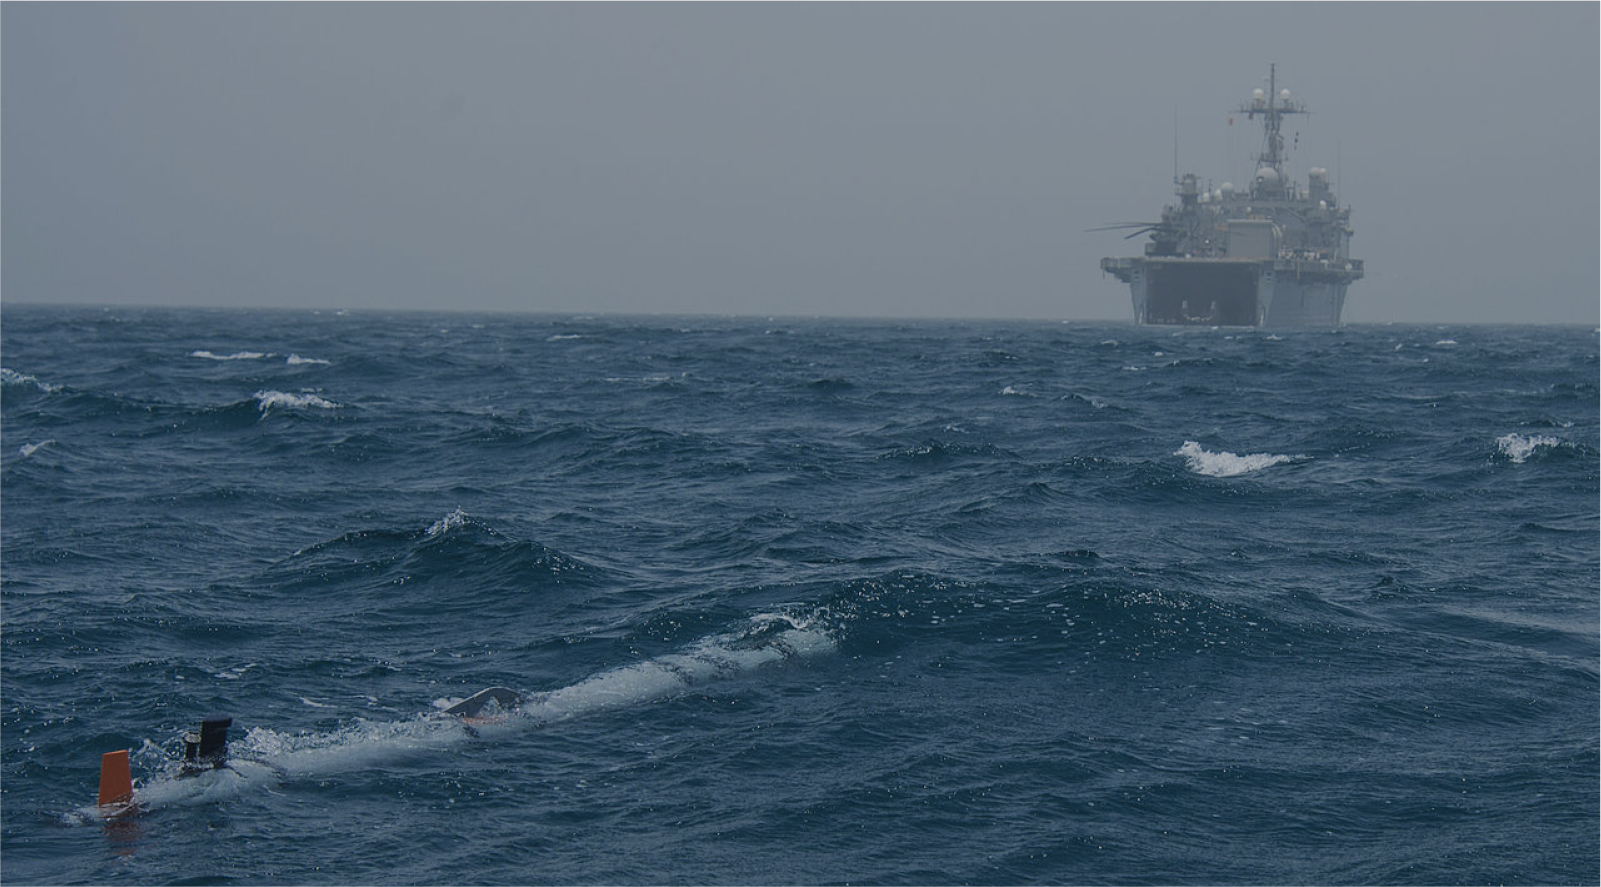
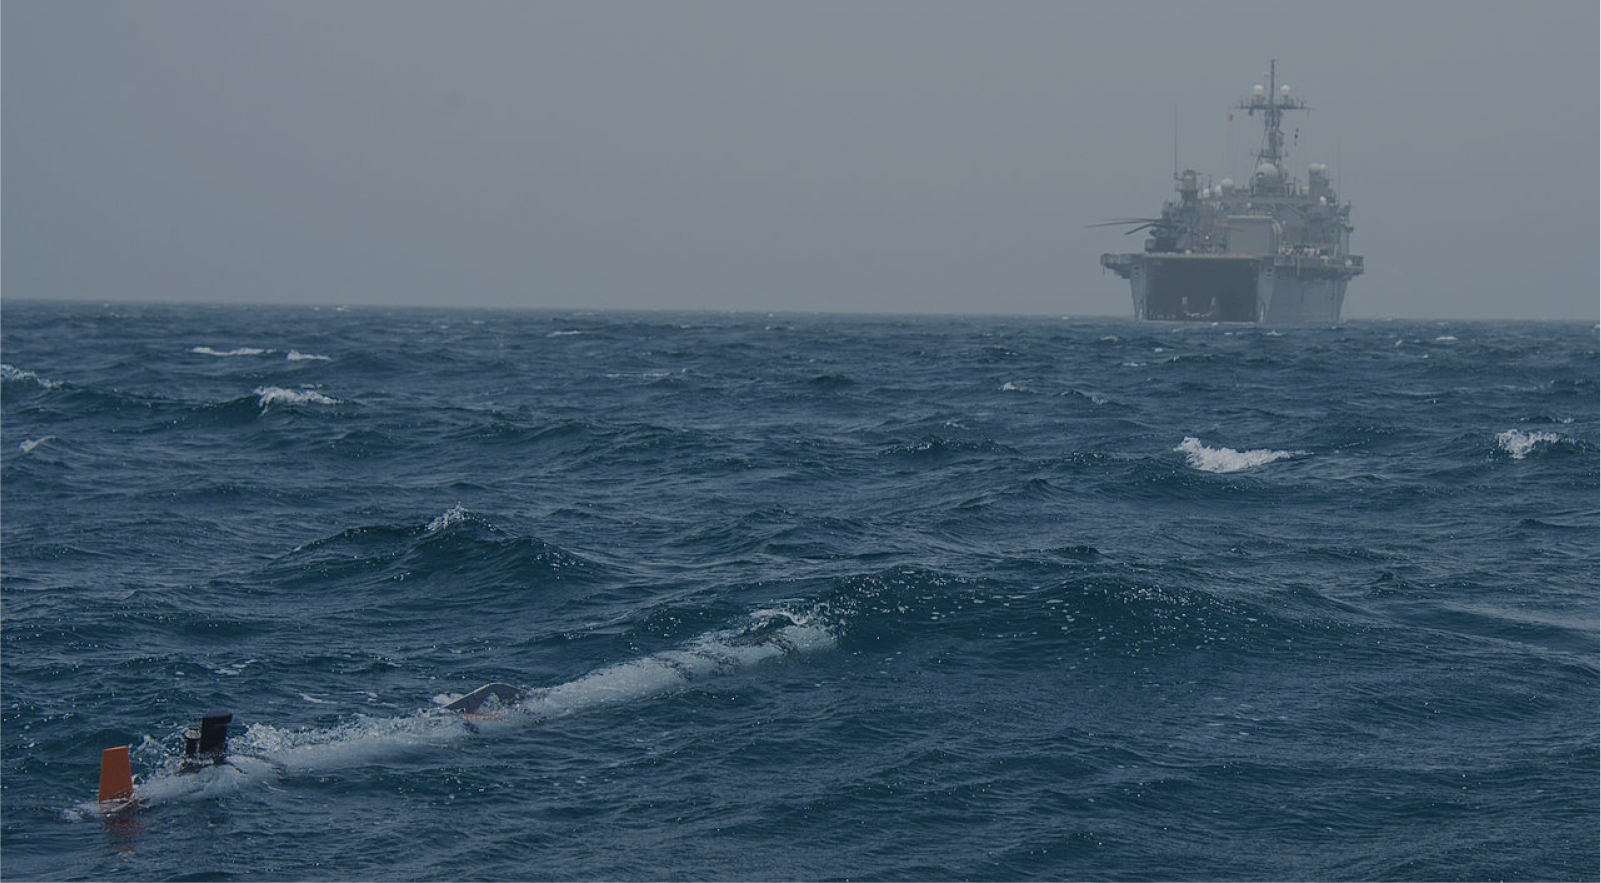
Fix expand button & ship image on mobile

diff --git a/assets/_sass/pages/final-report.scss b/assets/_sass/pages/final-report.scss
@@ -761,10 +761,12 @@
     #{$page}__img-full {
       position: relative;
       z-index: 1;
-      min-height: 800px;
+      margin-bottom: calc(250px + 1rem);
 
       @include breakpoint('medium') {
+        display: block;
         min-height: 630px;
+        margin-bottom: 0;
         padding-top: 2.625rem;
       }
 
@@ -780,10 +782,17 @@
       }
 
       &::before {
+        display: block;
         background-image: url('../../images/final-report/ship-2.jpg');
         background-repeat: no-repeat;
         background-position: 80% center;
         background-size: cover;
+
+        @include breakpoint($break: 'medium', $dir: 'max-width') {
+          top: 100%;
+          height: 250px;
+          z-index: 1;
+        }
 
         @include breakpoint('medium') {
           background-position: center center;
@@ -792,7 +801,12 @@
 
       &::after {
         /* prettier-ignore */
-        background: linear-gradient(180deg, $color__bg 0%, rgba(9, 21, 32, 0) 100%);
+        background: linear-gradient(180deg, #091520 0%, #848D98 100%);
+
+        @include breakpoint('medium') {
+          /* prettier-ignore */
+          background: linear-gradient(180deg, $color__bg 0%, rgba(9, 21, 32, 0) 100%);
+        }
       }
     }
 

diff --git a/assets/_sass/pages/_final-report-table.scss b/assets/_sass/pages/_final-report-table.scss
@@ -185,11 +185,18 @@
 
 .table__modal {
   position: fixed;
-  top: 50%;
-  left: 50%;
+  top: 0;
+  right: 0;
+  left: 0;
   z-index: 1000;
   display: none;
-  transform: translate(-50%, -50%);
+
+  @include breakpoint('medium') {
+    top: 50%;
+    right: unset;
+    left: 50%;
+    transform: translate(-50%, -50%);
+  }
 
   &.is-active {
     display: block;
@@ -237,6 +244,7 @@
   z-index: 1;
   display: flex !important;
   align-items: center;
+  min-width: 200px;
   margin-bottom: 0;
   padding: 4px 16px;
   @include font-size(16px);
@@ -255,6 +263,7 @@
 .btn--close {
   display: flex;
   align-items: center;
+  margin: 0 auto;
   color: $color__bluegray-light;
   text-transform: uppercase;
 
